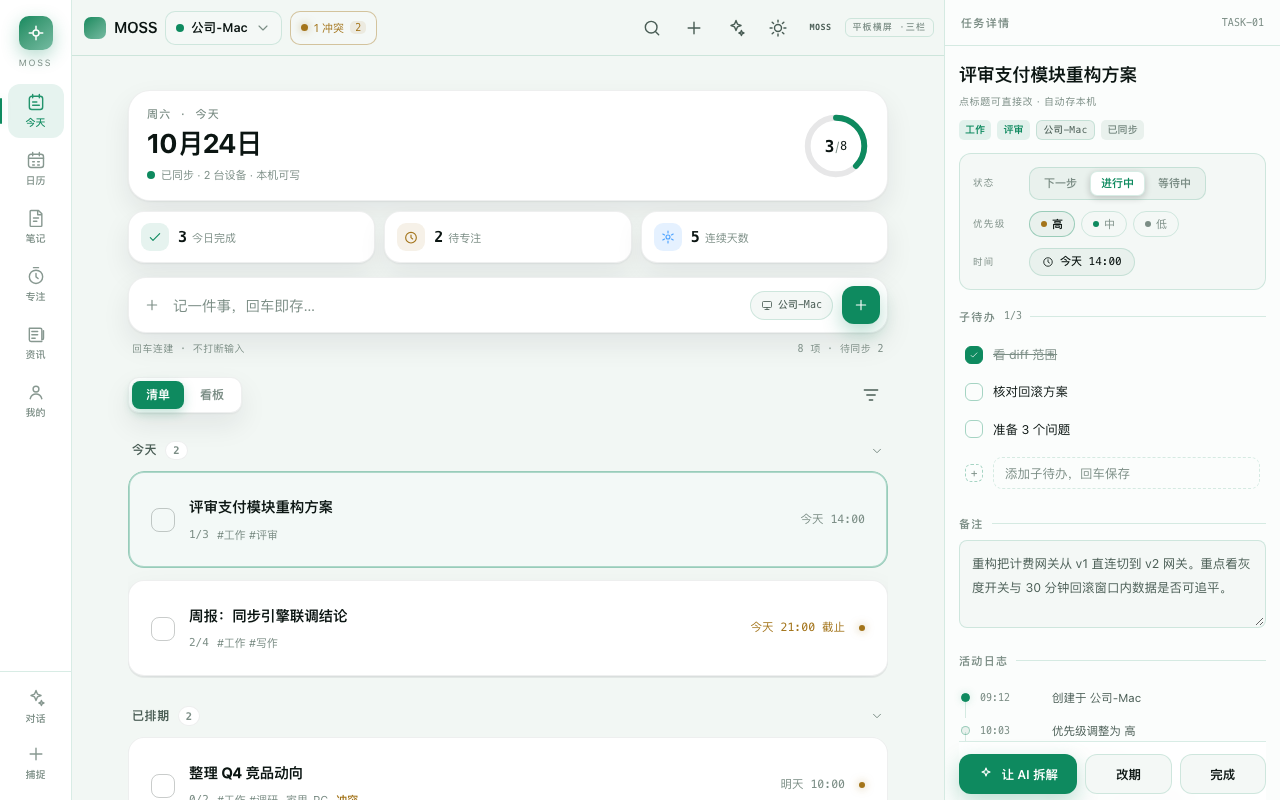
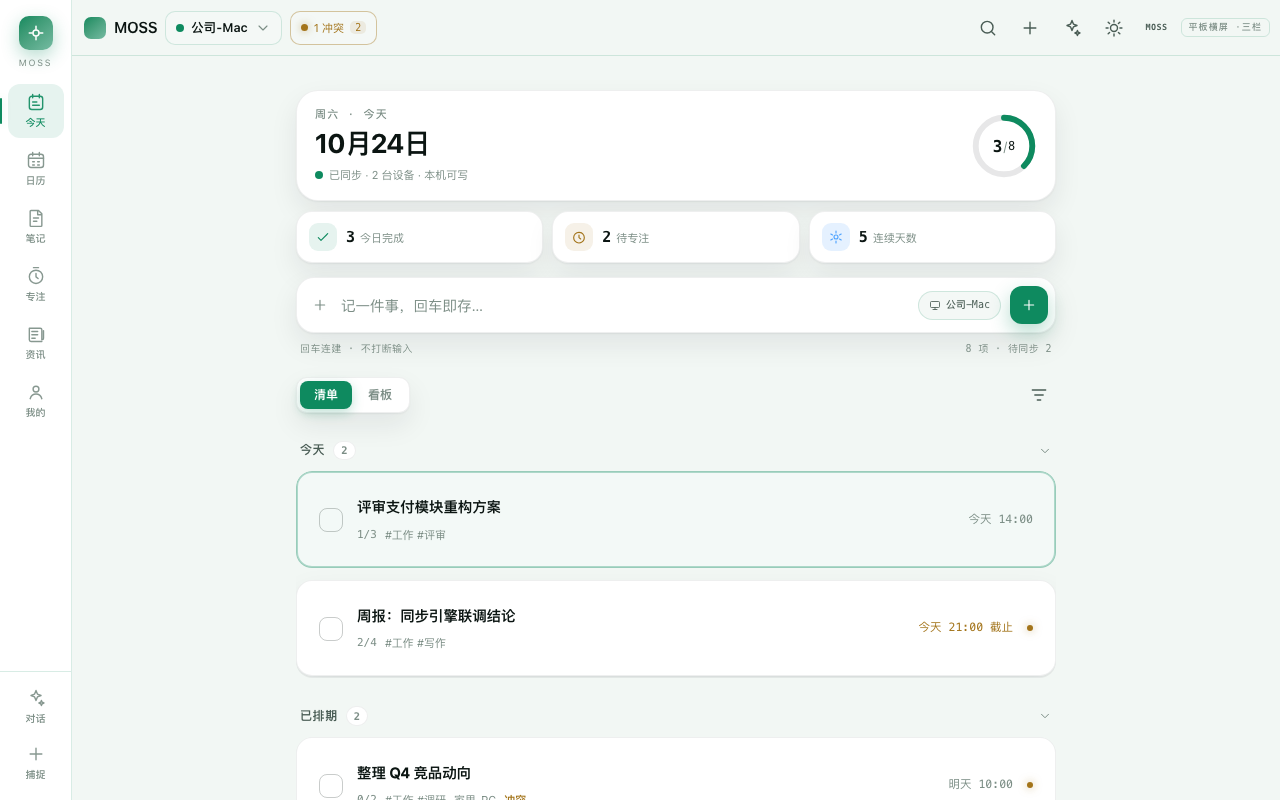
feat(prototype): 平板横屏改两栏，详情统一为弹出层
- 横屏不再显示右侧固定栏（去掉 .rightcol 显示与「隐藏抽屉」规则），主区占满
- isWide() 恒为 false：任务/笔记等详情一律走弹出层
- ≥820 抽屉改为右侧弹出页（420px，滑入），手机仍是底部抽屉
- 今日安排不再藏到右栏，留在主区
- 新增 #today-detail 深链用于截图/分享
- 断言更新：横屏校验「无固定右栏 + 点任务弹出详情」，ALL_PASS
- 像素验证：1280 下白色详情层位于 x=860..1280（420px），遮罩生效

diff --git a/docs/prototype/index.html b/docs/prototype/index.html
@@ -859,10 +859,9 @@ body.immersive .topbar{opacity:.32}
 }
 /* ═══════════════ 断点：≥1100 平板横屏（三栏） ═══════════════ */
 @media (min-width:1100px) and (min-height:560px){
-  .rightcol{display:flex}
+  /* 横屏改为两栏：rail + 主区，详情走弹出层 */
   .pad{padding:18px 32px calc(32px + var(--safe-b))}
   .me-wrap{gap:16px}
-  .drawer{display:none}
 }
 @media (max-height:520px) and (orientation:landscape){
   .topbar{flex-basis:46px;height:46px}
@@ -876,7 +875,7 @@ body.immersive .topbar{opacity:.32}
 /* ── 收尾细则 ── */
 #s-chat{overflow:hidden}
 .agenda-main{display:block}
-@media (min-width:1100px) and (min-height:560px){.agenda-main{display:none}}
+@media (min-width:1100px) and (min-height:560px){.agenda-main{display:block}}
 @media (max-width:430px){
   .syncb .lbl{display:none}
   .syncb{padding:0 8px;gap:5px}
@@ -1801,7 +1800,7 @@ body{
 const $ = (s, r) => (r || document).querySelector(s);
 const $$ = (s, r) => [...(r || document).querySelectorAll(s)];
 const esc = (s) => String(s).replace(/[&<>"]/g, c => ({'&':'&amp;','<':'&lt;','>':'&gt;','"':'&quot;'}[c]));
-const isWide = () => window.matchMedia('(min-width:1100px) and (min-height:560px)').matches;
+const isWide = () => false; // 详情统一走弹出层（横屏也是两栏）
 
 /* ─────────── 数据 ─────────── */
 let TASKS = [
@@ -3038,6 +3037,10 @@ function sendChat() {
 const h = location.hash.replace('#', '');
 const boardDeep = h === 'today-board';
 if (['today','calendar','focus','news','me','chat','devices','notes'].includes(h)) go(h);
+if (h === 'today-detail') {
+  go('today');
+  setTimeout(() => selectTask((TASKS.find(t => !t.done) || TASKS[0]).id), 60);
+}
 if (boardDeep) {
   go('today');
   $('#taskBoard').hidden = false; $('#taskList').hidden = true;

diff --git a/docs/prototype/harness.html b/docs/prototype/harness.html
@@ -13,7 +13,7 @@
 const CASES = [
   { name: 'phone', w: 390, h: 844, layout: 'bottom' },
   { name: 'tablet-portrait', w: 820, h: 1180, layout: 'left' },
-  { name: 'tablet-landscape', w: 1280, h: 800, layout: 'left+right' },
+  { name: 'tablet-landscape', w: 1280, h: 800, layout: 'left' },
 ]
 const TABS = [
   ['今天', ['今天', '收件箱']],
@@ -70,12 +70,20 @@ async function runCase(c) {
   if (nav) {
     if (c.layout === 'bottom') ok(nav.y > c.h * 0.75, `${c.name} 导航在底部（y=${Math.round(nav.y)}）`)
     else ok(nav.x < 160, `${c.name} 导航在左侧（x=${Math.round(nav.x)}）`)
-    if (c.layout === 'left+right') {
-      const right = [...doc.querySelectorAll('*')].some((e) => {
-        if (e.children.length > 0) return false
-        return /详情|队列|安排|冲突副本/.test(e.textContent ?? '') && e.getBoundingClientRect().x > c.w * 0.58
-      })
-      ok(right, `${c.name} 横屏右栏存在`)
+    if (c.name === 'tablet-landscape') {
+      // 横屏断言：两栏（无固定右栏）+ 详情以弹出层打开
+      const rc = doc.querySelector('.rightcol')
+      const rcHidden = !rc || win.getComputedStyle(rc).display === 'none'
+      ok(rcHidden, `${c.name} 无固定右栏（两栏布局）`)
+      const task = doc.querySelector('.lbody .trow')
+      if (task) {
+        task.click()
+        await new Promise((r) => setTimeout(r, 180))
+        const dr = doc.getElementById('drawer')
+        ok(!!dr && dr.classList.contains('on'), `${c.name} 点任务后详情以弹出层打开`)
+      } else {
+        ok(false, `${c.name} 未找到任务行，无法验证弹出层`)
+      }
     }
   } else {
     ok(false, `${c.name} 未找到导航 Tab「今天」`)
